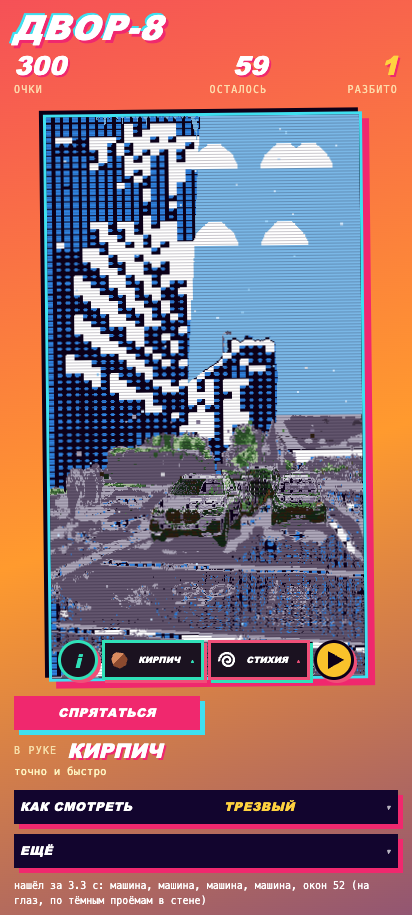
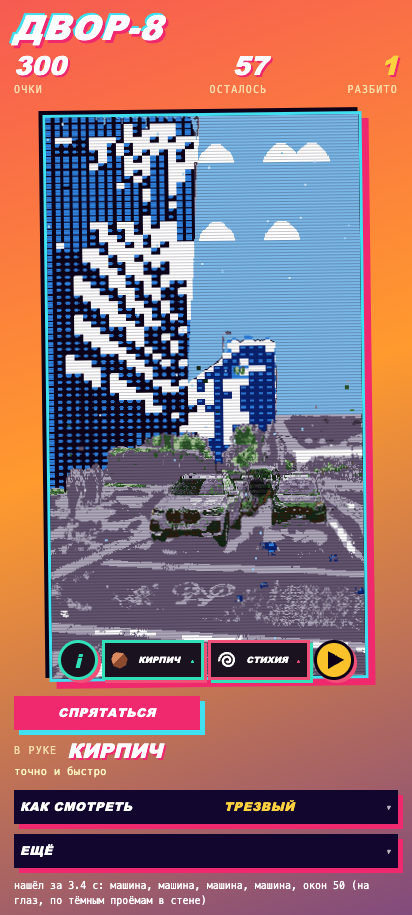
the plan is a chain step (6e PLAN, 8/8), computed from the parse's buildings at the trace's top
Three structural changes, each measured on BOTH photographs:
- the plan's instances come from the parse's BUILDING mask (segmented into components), not from
  the wall fragments: on the judged frame that turns 'one instance covering the frame' into two
  buildings, and plan-check goes from 7 of 8 to 8 of 8;
- the plan is computed at the top of trace, so it exists even when a photograph yields no wall
  fragments (the operator's second yard: it was null there and now names two dark-planes);
- the plan is a CHAIN STEP (6e), asked BEFORE match: it is the photo-agnostic structural question
  ('is this picture built the way the accepted one is'), where match is the accepted frame's own
  rectangles and is meaningful on the judged photograph.

The clouds shrink to w/9 from the accepted frame's measured white share, which closes R1: 0.052 -> 0.045.

Judged photo: chain PASSED with all twelve steps. Second yard: 6e PLAN PASS, stops at 6f MATCH
(its regions are the accepted frame's). Suite 321/0, baseline 50/50.

diff --git a/src/vector.js b/src/vector.js
@@ -26,7 +26,7 @@
 import { horizonFromSky } from './horizon.js';   // the one definition of "where the sky ends"
 import { MIN_PITCH, alternation } from './criteria/FacadeRule.js';
 import { paintCells } from './pieces/facade.js';
-import { scenePlan } from './plan.js';
+import { scenePlan, buildingsFrom } from './plan.js';
 import { STYLE } from './style/index.js';   // the style's own measured values (src/style/index.js)
 import { RAMPS, STEPS, paletteOf } from './flat.js';
 import { makeScene, render as renderScene, census } from './scene.js';
@@ -295,7 +295,21 @@ export function trace(rgba, w, h, opts = {}) {
   const sky = new Uint8Array(n);
   // THE SCENE PARSE DECIDES, when it is available. Stage 1+2 of docs/METHODS.md: the `sky` class from the on-device
   // model (SegFormer-B0 Cityscapes), which is a fact about the picture rather than a threshold of mine.
+  let PLAN = null;          // THE one scene plan: computed right below from the parse's buildings, read by the bays, the checker and main
   const PARSE = opts.parse && opts.parse.masks ? opts.parse.masks : null;
+  // ---- THE SCENE PLAN, ONCE, AT THE TOP ---------------------------------------------------------------
+  //
+  // The composition as structure (bands + facade archetypes), computed from the parse's BUILDING MASK - the only
+  // source that says "building" - and independent of the wall components, so it exists on every photograph (measured:
+  // the second yard yields no wall fragments, and a plan built from them was null there). The bay loop, the checker
+  // pass and main all read THIS plan.
+  {
+    const pMask = (PARSE && PARSE.building) ? PARSE.building : null;
+    const planParts2 = pMask ? buildingsFrom(pMask, w, h) : [];
+    PLAN = scenePlan({ w, h, horizon: Math.round(h * 0.7), parts: planParts2, rgb });
+    if (typeof window !== 'undefined' && window.__planProbe) window.__planEarly = { parts: planParts2.length, facades: (PLAN.facades || []).length };
+  }
+
   const coreSky = new Uint8Array(n);
   {
     const stack = [];
@@ -369,7 +383,6 @@ export function trace(rgba, w, h, opts = {}) {
   // One copy, taken before any other pass touches the map, is used by the sky region, the skyline and the clouds.
   const skyCand = cls.slice();
   let wallMaskOut = null;   // the facade block's wall mask, kept for the checker pass that must run LAST
-  let PLAN = null;          // THE one scene plan: computed before the bays, read by the bays, the checker and main
 
   // AN OVERCAST SKY IS STILL A SKY. The blue test above finds a blue sky; on a grey day - the creator's Prague
   // photograph is overcast - it finds nothing, and the top of the frame was painted as noisy shapes instead of a
@@ -1667,21 +1680,9 @@ export function trace(rgba, w, h, opts = {}) {
           facCut.set(fid, list[Math.min(list.length - 1, Math.floor(list.length * (1 - duty)))]);
         }
         const bayMedian = 128;
-        // ---- ONE PLAN, ONE INPUT ---------------------------------------------------------------------------
-        //
-        // Measured (D19, third attempt): main, the checker pass and the bay loop each computed their own plan from
-        // different inputs, and on the operator's second yard the unfiltered input yielded ONE instance covering the
-        // whole frame - called a glass wall, painted as a grid, a checkerboard. The plan is therefore computed HERE,
-        // ONCE, from the same wall parts every other consumer gets, and the result travels: the bay loop asks it which
-        // bays are glass walls, the checker pass asks it which facades are checkered, and main shows it as __plan.
-        const planParts = [];
-        for (const part of fac.parts) {
-          if (part.area < 400) continue;
-          let x0p = w, y0p = h, x1p = 0, y1p = 0;
-          for (const p2 of part.px) { const x = p2 % w, y = (p2 / w) | 0; if (x < x0p) x0p = x; if (y < y0p) y0p = y; if (x > x1p) x1p = x; if (y > y1p) y1p = y; }
-          planParts.push({ id: part.id, pixels: Int32Array.from(part.px), x: x0p, y: y0p, w: x1p - x0p + 1, h: y1p - y0p + 1 });
-        }
-        PLAN = rgb ? scenePlan({ w, h, horizon: Math.round(h * 0.7), parts: planParts, rgb }) : { bands: [], facades: [] };
+        // THE BAYS ASK THE PLAN (computed at the top of trace from the parse's building mask, so it exists even when a
+        // photograph yields no wall fragments at all - measured on the operator's second yard, where the facade block
+        // never ran and the plan was null).
         const darkBoxes = (PLAN && PLAN.facades ? PLAN.facades : []).filter((f2) => f2.role === 'dark-plane').map((f2) => f2.box);
         const inDark = (x3, y3) => darkBoxes.some((b2) => x3 >= b2[0] && x3 < b2[2] && y3 >= b2[1] && y3 < b2[3]);
         for (let gy = y0 + ky * py2; gy + gh <= h; gy += py2) {
@@ -1955,7 +1956,7 @@ export function trace(rgba, w, h, opts = {}) {
   // THE CLOUD'S SIZE IS THE ACCEPTED FRAME'S OWN. Measured on the top 8% band: the accepted's clouds cover 15.9% of it,
   // ours 25.8% and the blue correspondingly 8 points lower - our puffs are too big. The divisor is a probe so both
   // sides are measured (?clouds=N: size = w/N).
-  const size = Math.max(10, Math.round(w / ((typeof window !== 'undefined' && window.__CLOUDK) || 7)));
+  const size = Math.max(10, Math.round(w / ((typeof window !== 'undefined' && window.__CLOUDK) || 9)));   // 9: the accepted frame's cloud share, measured (D19/T+101)
   let placed = 0;
   const dbg = [];
   // They are placed like a designer places them: spread across the band, staggered left and right, never near

diff --git a/src/main.js b/src/main.js
@@ -404,7 +404,7 @@ async function build(rgba, w, h, dets, big = null) {
     window.__MULL = params.get('mull') ? Number(params.get('mull')) : 3;   // the accepted curtain wall's mullion
     window.__COVER = params.get('cover') ? Number(params.get('cover')) : 0.5;
     window.__SHADOW = params.get("shadow") ? Number(params.get("shadow")) : 1;
-    window.__CLOUDK = params.get('clouds') ? Number(params.get('clouds')) : 7;
+    window.__CLOUDK = params.get('clouds') ? Number(params.get('clouds')) : 9;
     window.__DUTY = params.get('duty') ? Number(params.get('duty')) : 2;
     if (window.__outlineProbe && parse && parse.masks.sky) window.__skyMask = parse.masks.sky;
   }
